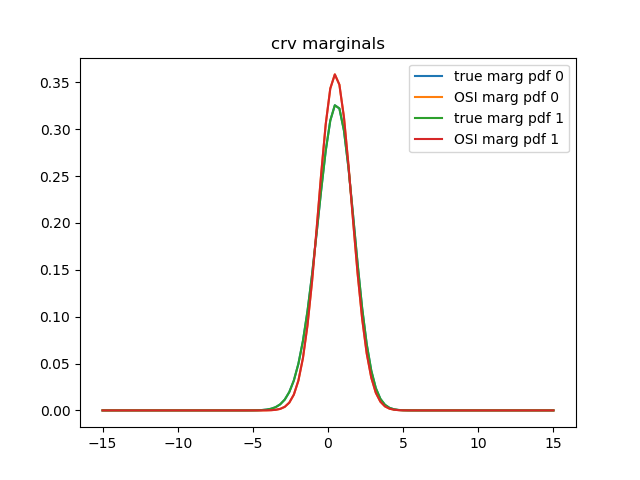
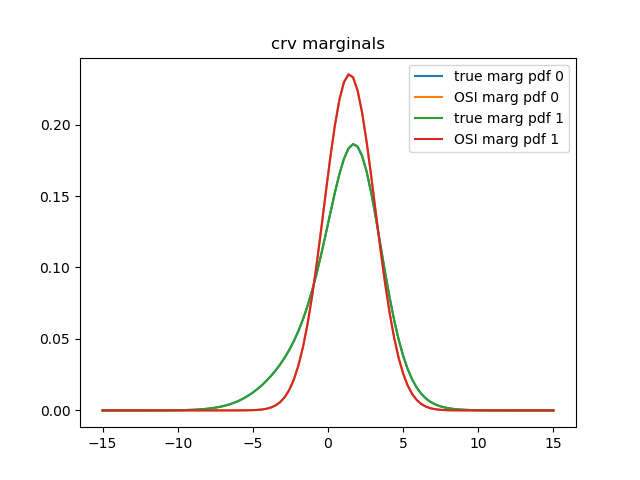
make serious hybrid mln more challenging (more skewed, no longer resembles Gaussian); EPBP better than OSI (still K=1; converged BFE=-8.00751, true -logZ=-8.6117), not surprised
EPBP avg time 0.21181704700000026
OSI avg time 3.017320527
EPBP diff 0.006964810412045441
EPBP std 0.004759548418127979
OSI diff 0.27693484013122904
OSI std 5.4241045484546706e-08

diff --git a/osi/serious_hybrid_mln_experiment.py b/osi/serious_hybrid_mln_experiment.py
@@ -44,7 +44,7 @@ atom_C2 = Atom(domain_bool, logical_variables=(lv_y, lv_s2), name='C')
 atom_D = Atom(domain_bool, logical_variables=(lv_x, lv_y), name='D')
 
 f1 = ParamF(  # disc
-    MLNPotential(lambda x: imp_op(x[0] * x[1], x[2]), w=1),
+    MLNPotential(lambda x: imp_op(x[0] * x[1], x[2]), w=0.2),
     nb=(atom_D, atom_C, atom_C2),
     constrain=lambda sub: (sub[lv_s] == 'T1' and sub[lv_s2] == 'T1') or (sub[lv_s] == 'T1' and sub[lv_s2] == 'T2')
 )
@@ -60,7 +60,7 @@ equiv_hybrid_pot = HybridQuadraticPotential(
     c=w_h * np.array([0., 0.])
 )  # equals 0 if x[0]==0, equals -(x[1]-x[1])^2 if x[0]==1
 
-prior_strength = 0.1
+prior_strength = 0.02
 f3 = ParamF(  # cont
     QuadraticPotential(A=-prior_strength * (np.eye(2)), b=np.array([0., 0.]), c=0.),
     nb=[atom_A, atom_B]
